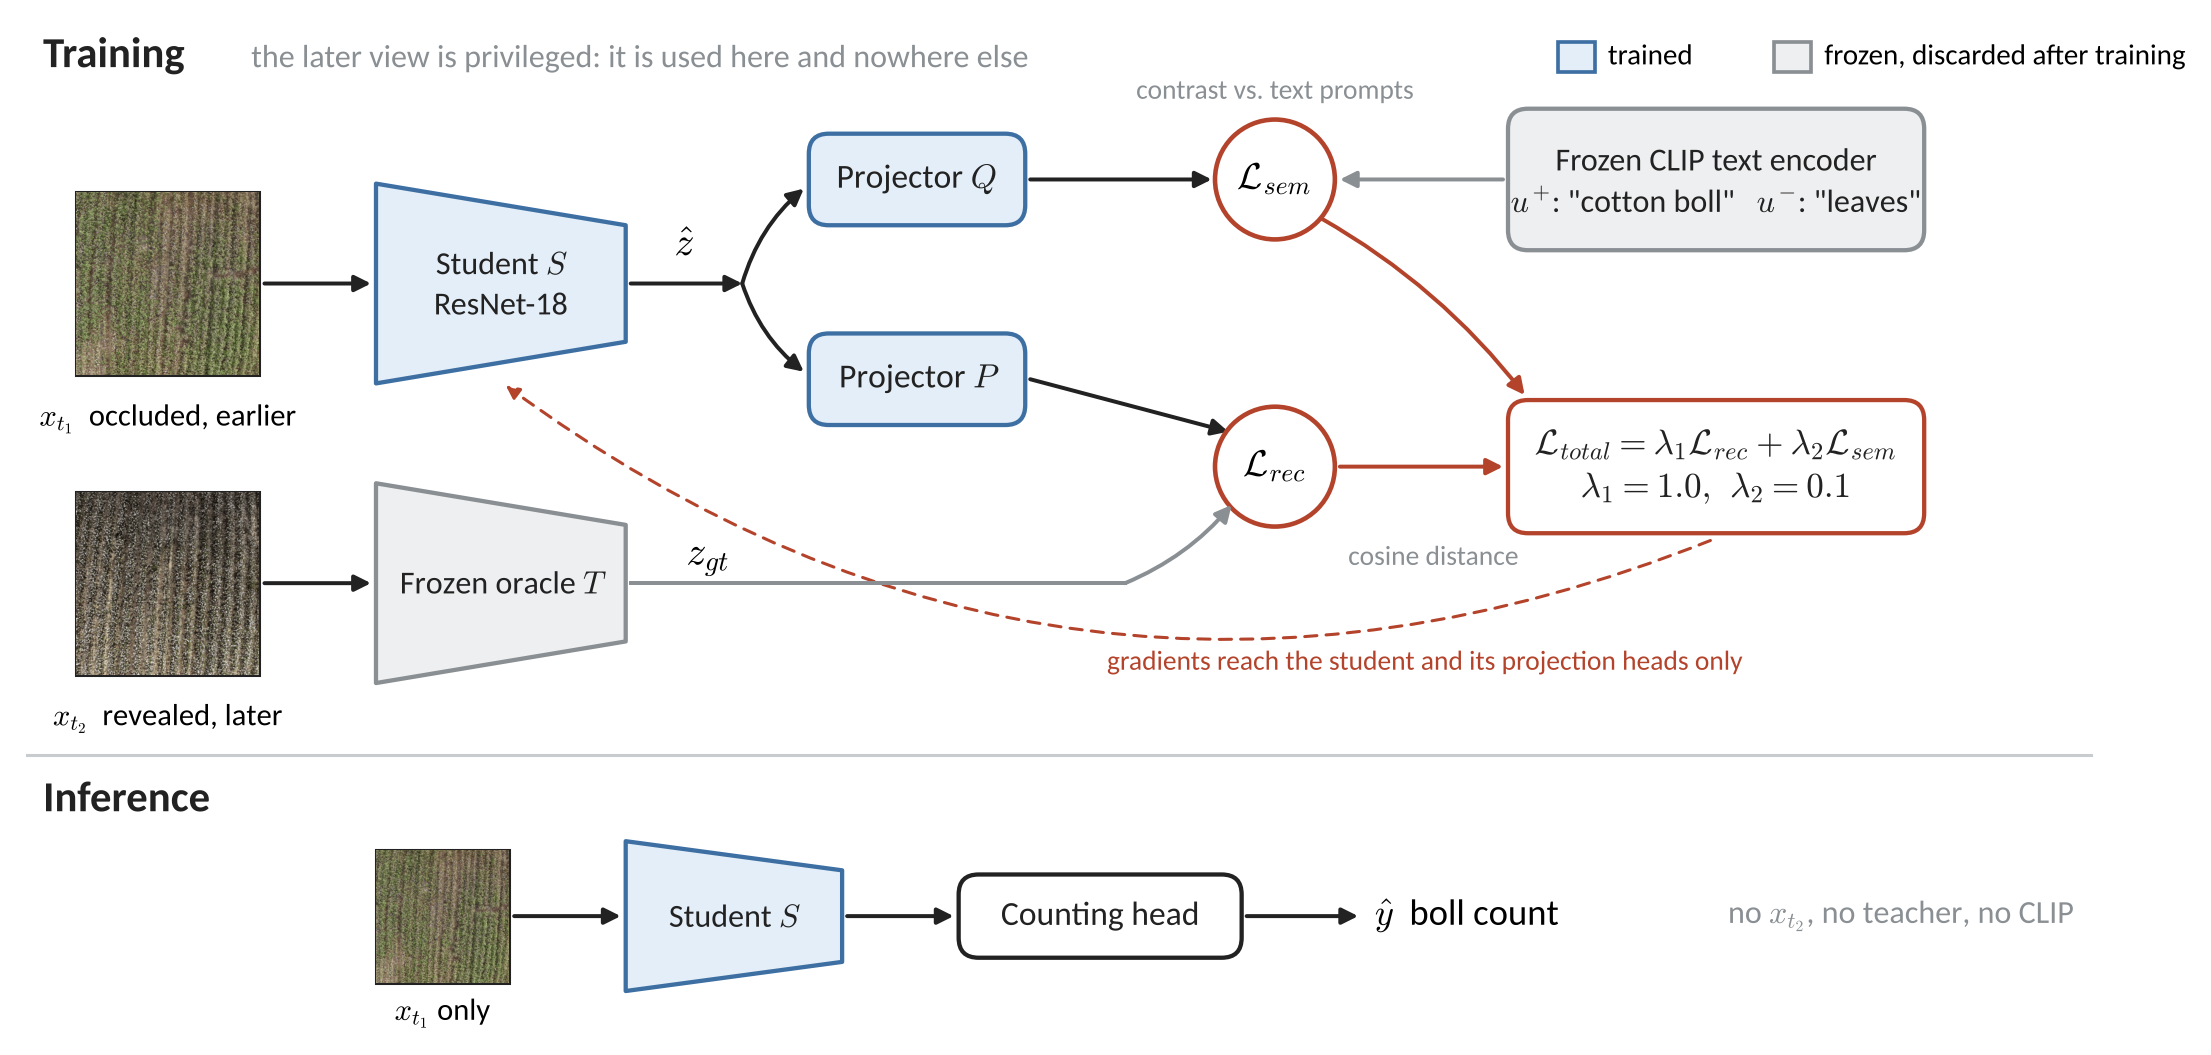
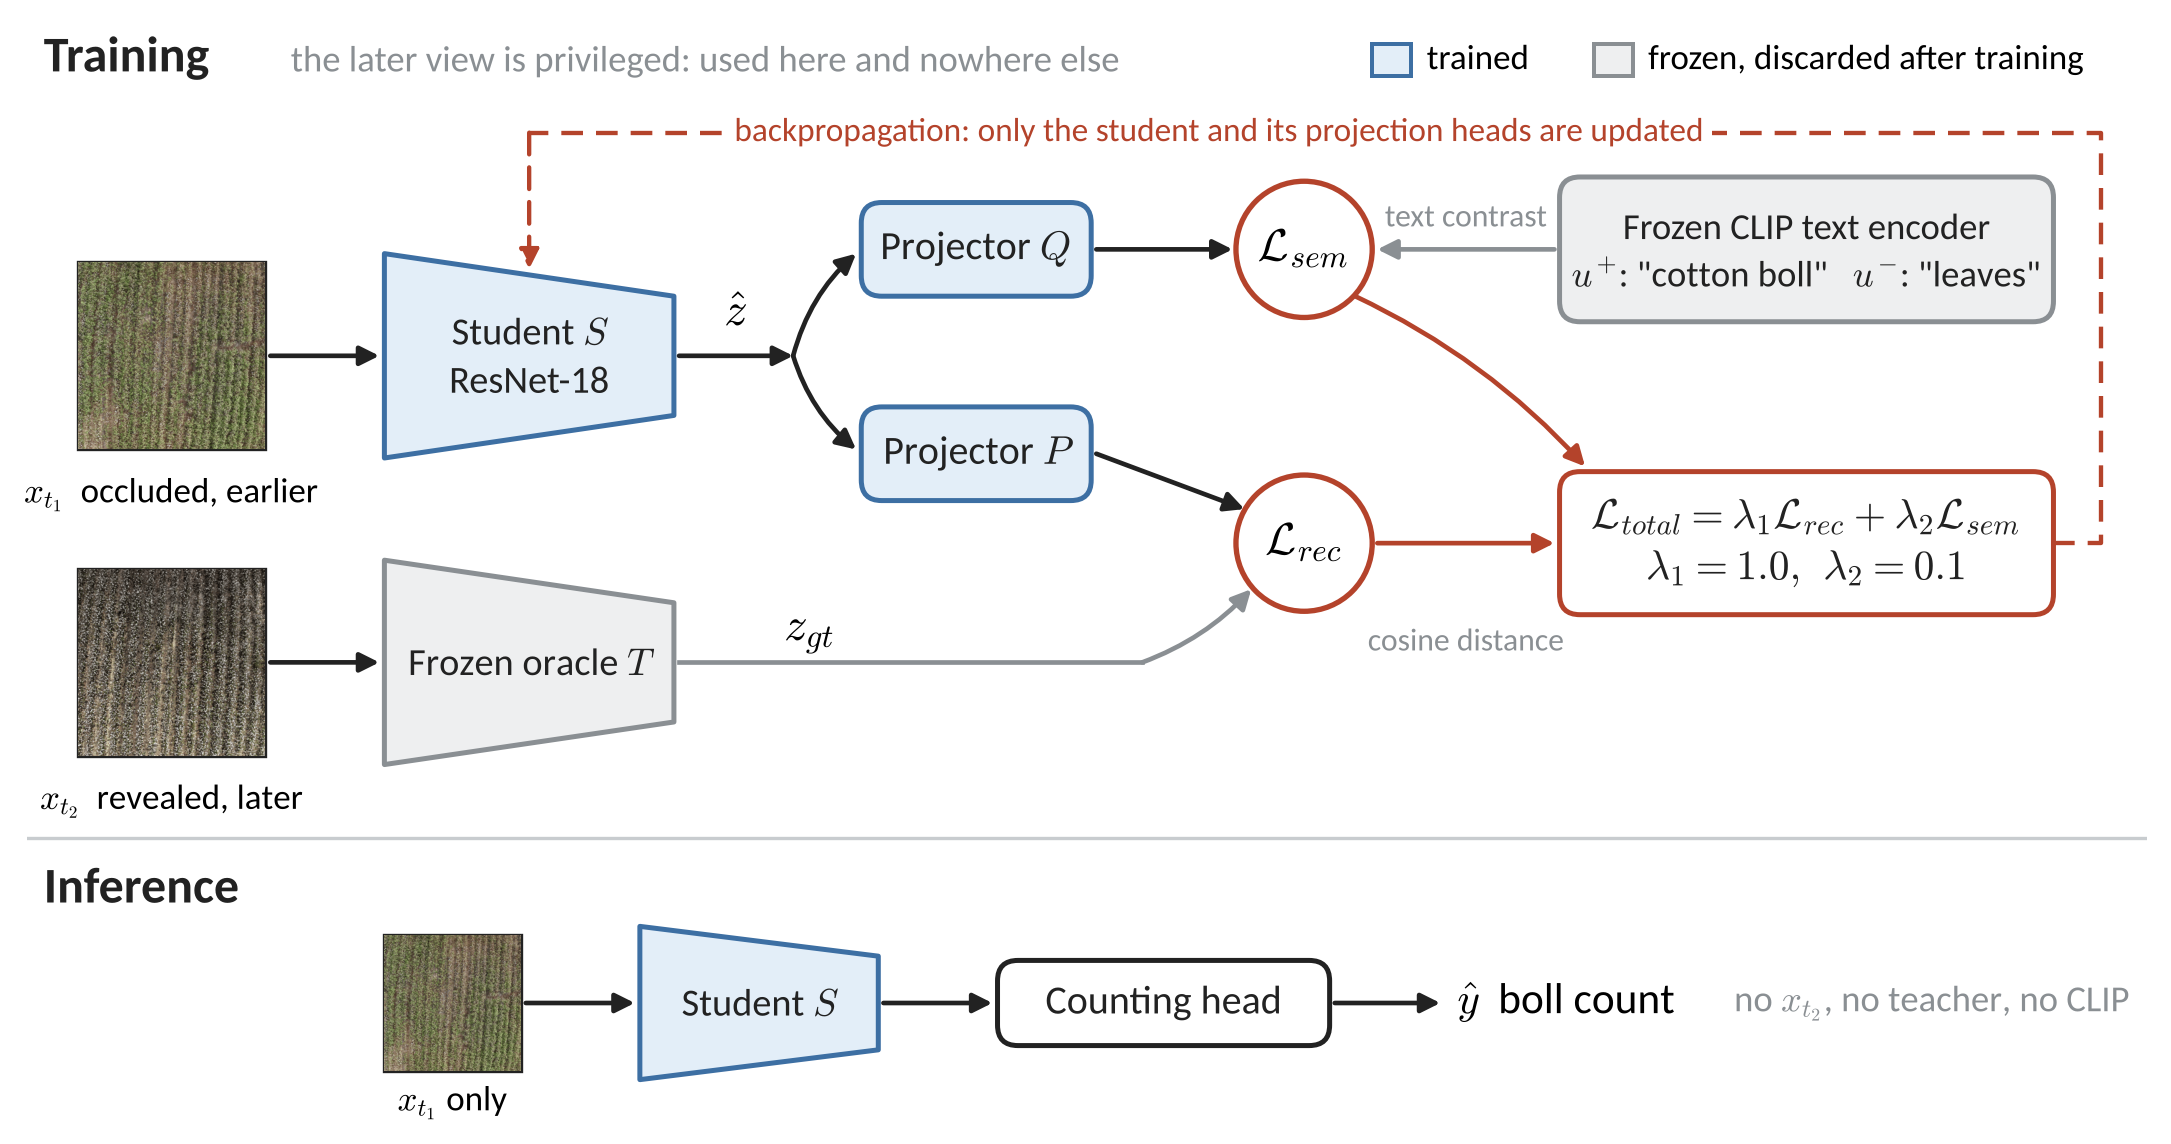
Refine the architecture figure and add a section on relevance beyond agriculture

diff --git a/docs/index.html b/docs/index.html
@@ -61,8 +61,13 @@ footer{color:#56605a;font-size:14px;border-top:1px solid #d5ded8;margin-top:50px
 <ul><li>For sequences where occlusion decreases over time while the target keeps its form. Validated on cotton only.</li>
 <li>Homography handles platform drift, not irregular motion: wind above 15 mph causes 5-10 cm displacements in about 2% of cases, and shadows can imitate a newly visible feature.</li>
 <li>Partial or uneven revelation and dynamic scenes remain to be evaluated.</li></ul>
-<p>The objective itself is not tied to crops. It needs two registered observations of one scene, occlusion that decreases between them, and object identity that persists. Snow melt, tidal recession, staged assembly and repeated robot interaction are candidate settings; none has been tested.</p>
-<h2><span>7</span>Citation</h2>
+<h2><span>7</span>Why this matters outside agriculture</h2>
+<p>Cotton is the test bed, not the point. TePD is a training recipe for any perception system that has to act on a partial view now and that will, at some later time, get a clearer look at the same scene.</p>
+<ul><li><b>Supervision from the world's own dynamics.</b> The training signal is a second observation of the same scene, not a human-completed amodal mask. Systems that revisit scenes collect such pairs as a by-product of operating.</li>
+<li><b>No cost at deployment.</b> The privileged view, the teacher and the CLIP guide are used in training and then removed. Inference is one pass through a ResNet-18 student and a counting head.</li>
+<li><b>Instance-faithful, not merely plausible.</b> The student is trained to agree with the features of the particular scene that was later revealed. Measurement tasks need that property, and generative completion does not guarantee it.</li></ul>
+<p>A new domain has to provide two registered observations of one scene, occlusion that decreases between them, and object identity that persists. Candidate settings named in the paper are snow melt, tidal recession, staged assembly and repeated robot interaction. These are hypotheses: only cotton and one synthetic control have been tested.</p>
+<h2><span>8</span>Citation</h2>
 <pre>@inproceedings{manjunatha2026tepd,
   title     = {TePD: Temporal Privileged Distillation for Amodal Counting Under Structured Occlusion},
   author    = {Manjunatha, Harshitha and Sundaravadivel, Prabha and Borah, Shekhar Suman and Tamil, Lakshman and Torbert, H. Allen},

diff --git a/README.md b/README.md
@@ -51,7 +51,7 @@ Most amodal vision methods treat occlusion as a spatial distortion to complete o
 
 ## How it works
 
-<p align="center"><img src="docs/assets/method_overview.png" width="92%" alt="TePD training and inference"></p>
+<p align="center"><img src="docs/assets/method_overview.png" width="100%" alt="TePD training and inference"></p>
 <p align="center"><i>TePD training and inference. A frozen oracle encodes the revealed view; the student and its two projectors are the only trained parts. At inference the student and a counting head run on the occluded view alone.</i></p>
 
 With student features $\hat z = S(x_{t_1})$ and teacher features $z_{gt} = T(x_{t_2})$:
@@ -106,15 +106,23 @@ Against the strongest baseline (MAE-ViT), TePD improves LCS by **17.2%** and red
 - Homography corrects platform drift but not irregular motion. Wind above 15 mph produces 5-10 cm displacements in about 2% of cases, and shadows can imitate a newly visible feature.
 - Partial or uneven revelation and dynamic scenes have not been evaluated.
 
-## Beyond the cotton field
+## Why this matters outside agriculture
 
-Nothing in the objective is specific to crops. The method needs three conditions:
+Cotton is the test bed, not the point. TePD is a training recipe for any perception system that has to act on a partial view now and that will, at some later time, get a clearer look at the same scene.
+
+**What carries over**
+
+- **Supervision from the world's own dynamics.** The training signal is a second observation of the same scene, not a human-completed amodal mask. Systems that revisit scenes collect such pairs as a by-product of operating.
+- **No cost at deployment.** The privileged view, the teacher and the CLIP guide are used in training and then removed. Inference is one pass through a ResNet-18 student and a counting head.
+- **Instance-faithful, not merely plausible.** The student is trained to agree with the features of the particular scene that was later revealed. Measurement tasks need that property, and generative completion does not guarantee it.
+
+**What a new domain has to provide**
 
 1. two registered observations of one scene,
 2. occlusion that decreases between them,
 3. object identity that persists across the interval.
 
-Settings that plausibly meet them include snow melt, tidal recession, staged assembly and repeated robot interaction. None of these has been tested; each would need evidence that the later view shows the same instances.
+Candidate settings named in the paper are snow melt, tidal recession, staged assembly and repeated robot interaction. These are hypotheses. Only cotton and one synthetic control have been tested, and each new setting would need evidence that the later view shows the same instances.
 
 ## At NeurIPS 2026
 
